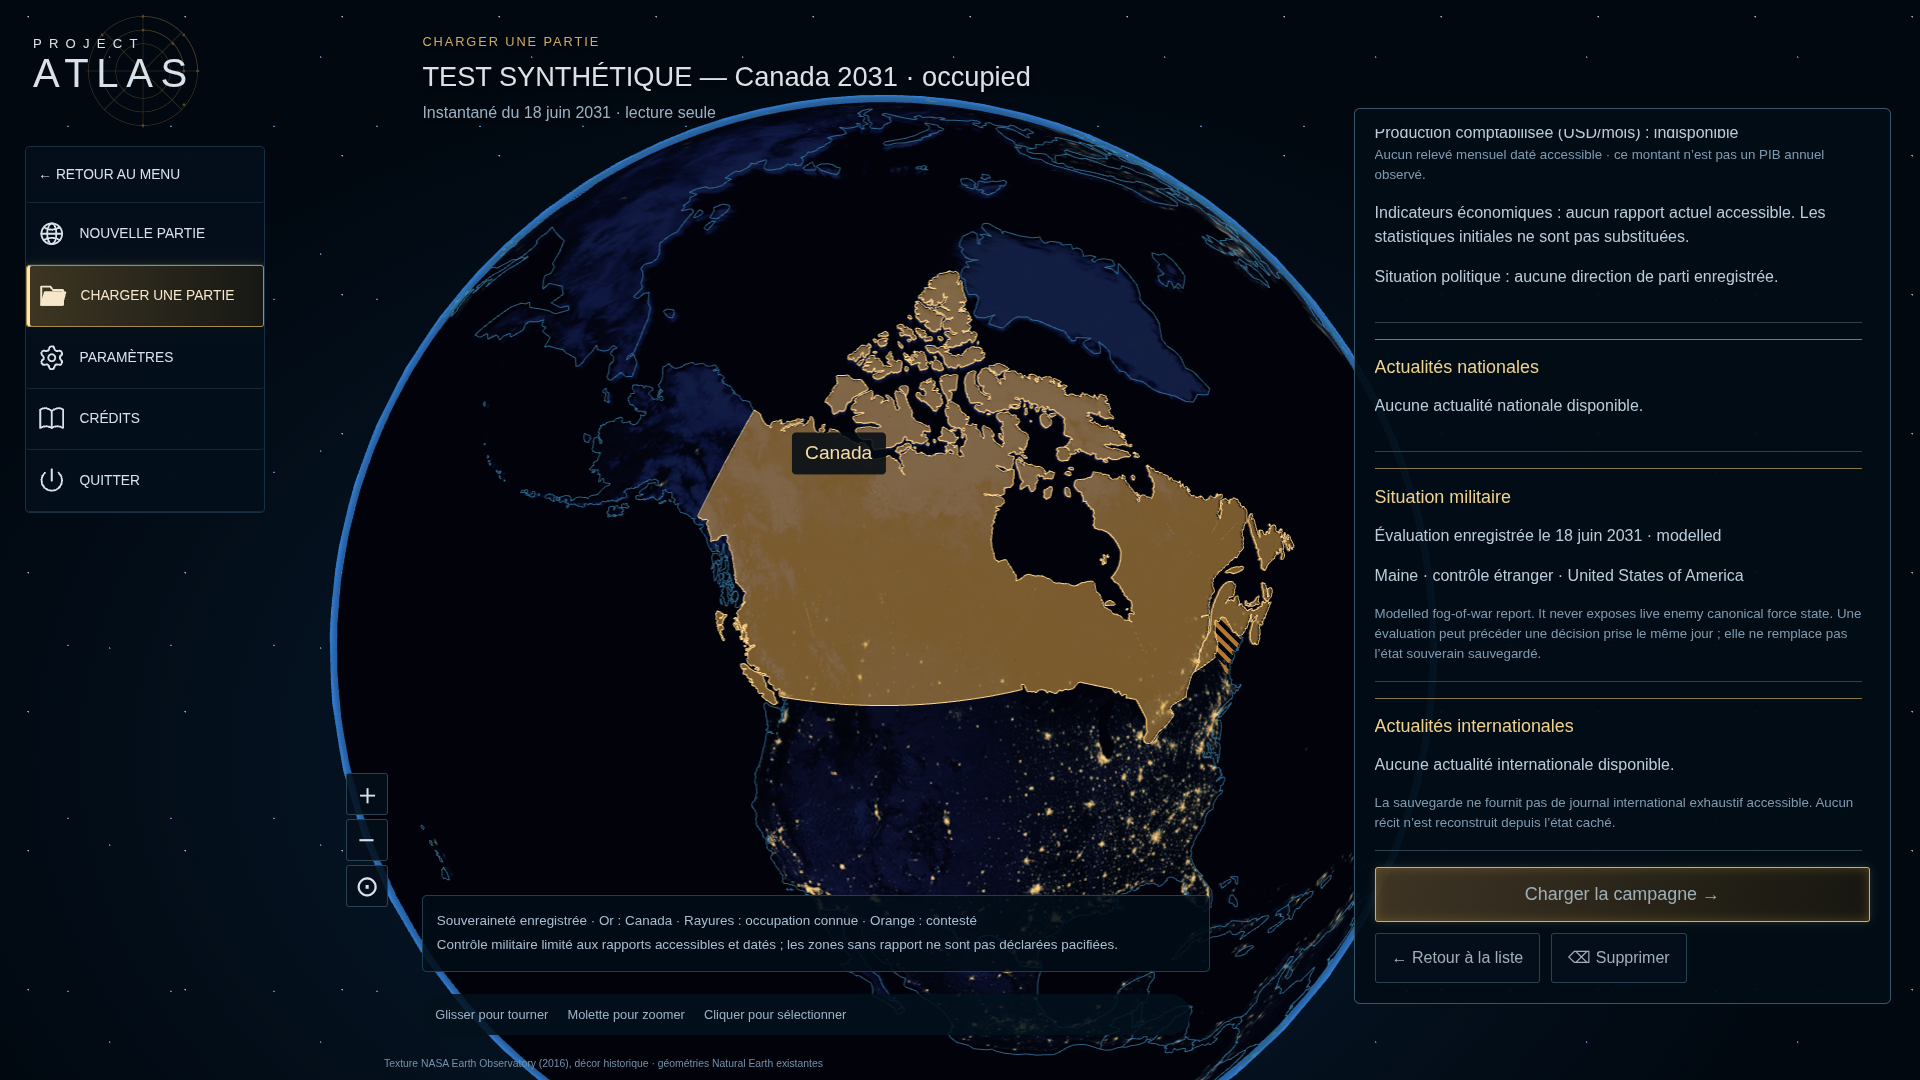
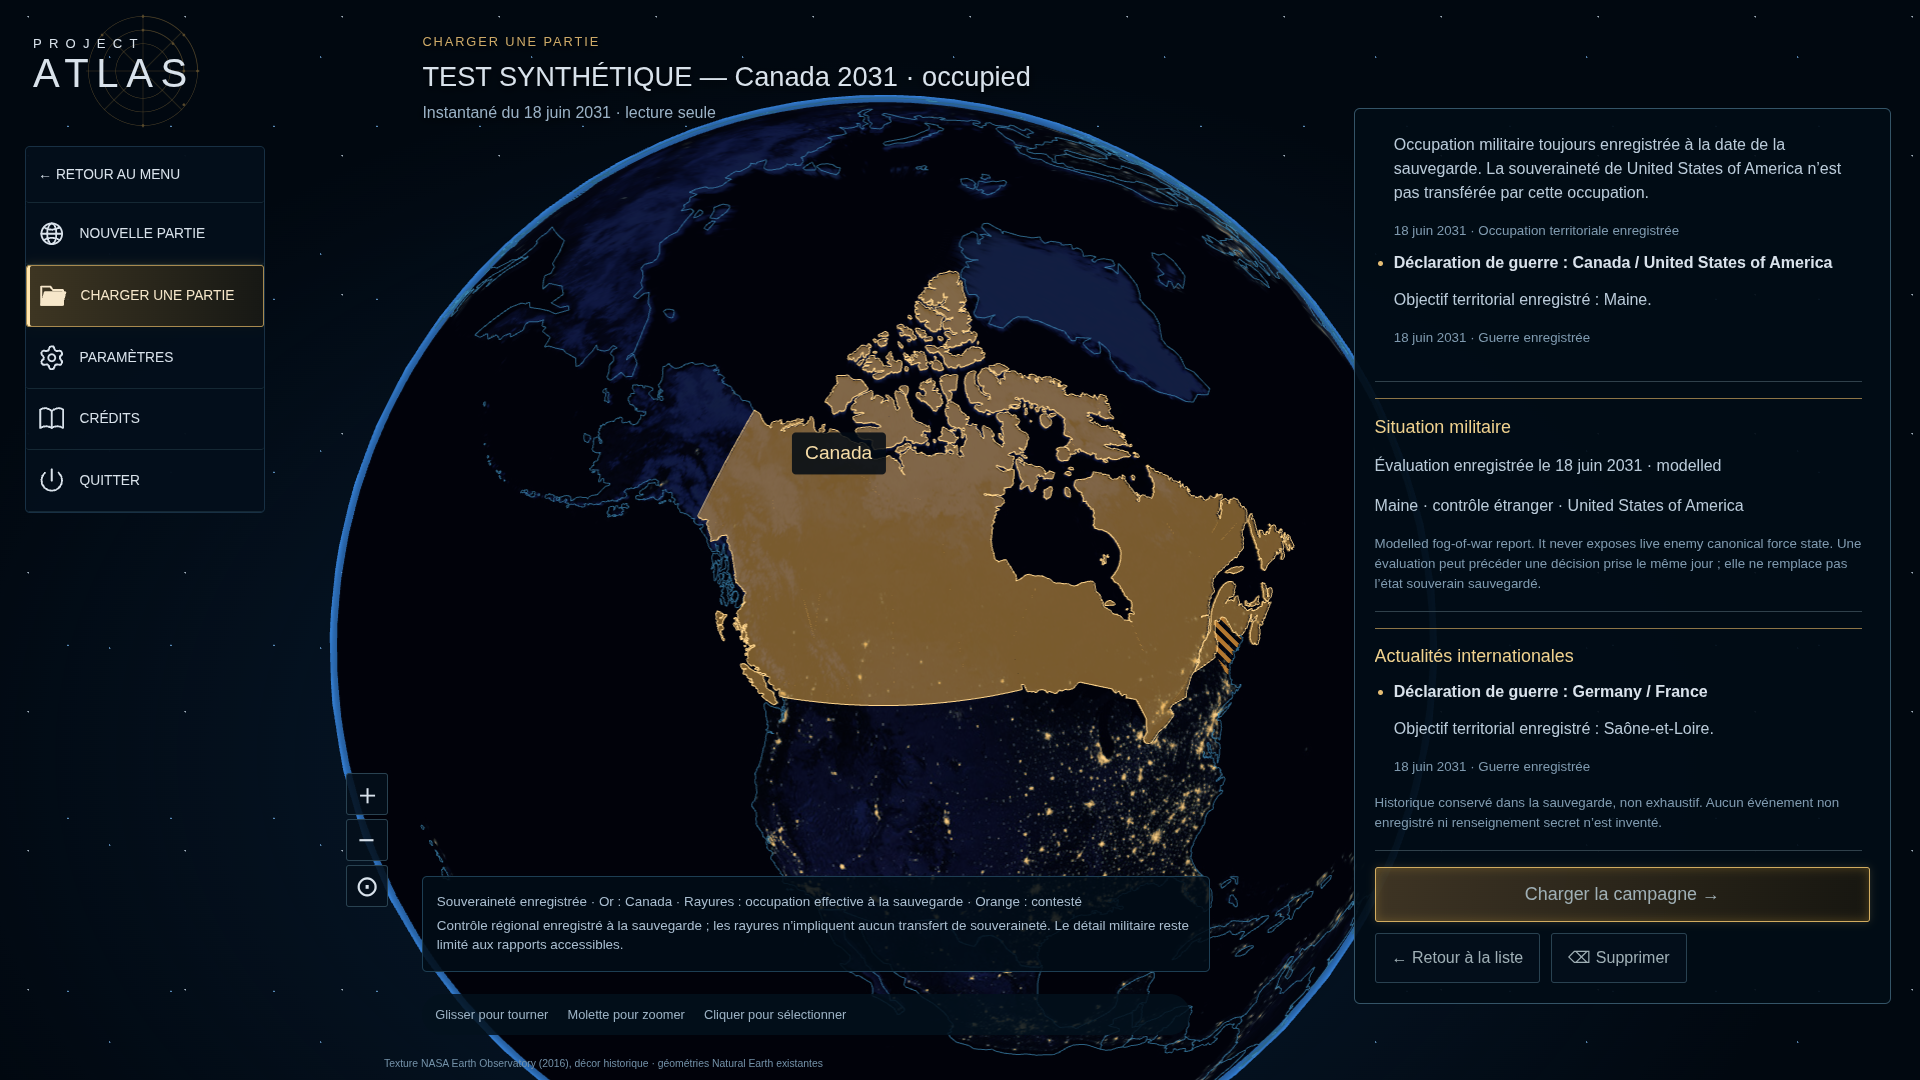
Publish consolidated load menu audit and fresh national and international news screenshots

Changed region(s): [[0.7188, 0.1222, 0.9688, 0.7639], [0.2188, 0.7944, 0.625, 0.8861]]

diff --git a/docs/load-game-final-audit.md b/docs/load-game-final-audit.md
@@ -24,3 +24,51 @@ Parent conservé : ce4cea59608fa7ef0100c64f3172051de439ef1c. Branche existante u
 - Texte de refus des renseignements militaires devenu contradictoire avec la carte mondiale : corriger le libellé, pas les droits.
 
 Risques : couverture historique bornée, absence d'historique d'occupations achevées, contours généralisés, coût des grandes fixtures, chronologie intrajournalière limitée aux preuves enregistrées. Ces limites doivent rester explicites.
+
+## Revue du diff après implémentation
+
+| Sujet audité | Constat / décision | Preuve ou validation attendue |
+|---|---|---|
+| Cadence des rapports / opposition | Correctif récent conservé : statut régional global sauvegardé, rapports tactiques détaillés filtrés | Tests occupation entre rapports et sans fonction, contrôle étranger contesté |
+| Cession et frontières | Aucun nouveau transfert ; source exclusive regionOwnership, suppression des segments partagés du même souverain | Test réel contours Canada/Maine et reprise A/B/A |
+| Géométrie partielle | Corrigé : une région n'est complète que si tous ses sourceFeatureIds uniques sont présents et polygonaux, fermés, finis et géographiquement admissibles | Test composante manquante et coordonnées invalides ; repli explicite |
+| Aperçu / campagne active | Aucun changement du chemin de restauration détachée ni de l'horloge | Comparaison par resauvegarde via l'interface du jeu ; date, tick, seed, pause, personne, propriété et occupation |
+| Chronologie | Corrigé : sélectionner les 12 événements majeurs puis afficher les éléments retenus par date décroissante, importance et ID comme départages stables | Test ordre et priorité des faits majeurs sur événements mineurs |
+| Doublons | Corrigé : résultat parlementaire accessible avec référence explicite à la proposition et même date remplace l'entrée de décision correspondante | Test briefing/résultat de loi ; aucune suppression déduite d'une simple similarité de titres |
+| Événements futurs | Déclarations futures ignorées ; restriction différée présentée comme non encore applicable, levée future non annoncée | Test déclaration/application/levée ; contrôles existants des briefings et évaluations |
+| Crises et droits | Ne pas convertir les épisodes cachés en actualités ; seuls les briefings accessibles existants sont projetés | Test crise publique visible et briefing gouvernemental exclu pour le personnage sans fonction |
+| Diplomatie | Conservation des évaluations accessibles et datées, sans exposer leurs drivers cachés | Tests existants conservés ; traités, restrictions et guerre étrangère projetés depuis les enregistrements |
+| Libellé militaire | Corrigé : le refus concerne les rapports détaillés, pas la carte régionale publique globale | Libellé aligné avec le correctif territorial antérieur |
+| Visuel | Composition existante conservée ; nouvelles captures dédiées à chaque rubrique, aux deux tailles et à 150 %, plus sans WebGL | Nouveau parcours navigateur ; images à relire après run |
+| Périmètre | Aucune règle moteur, migration, donnée canonique, stockage, BUG-001 ou animation UX-001 modifié | Diff contre le parent ce4cea59 et contre main pour les chemins protégés |
+
+La nouvelle guerre étrangère des captures est une fixture synthétique Allemagne–France, ajoutée par createClaim et declareLimitedWar avec des IDs canoniques. Elle n'est pas une observation de 2031 ni une simulation historique revendiquée. Les trois sauvegardes du test passent la sérialisation/restauration et les invariants sur le runner avant utilisation par le navigateur.
+
+## Limites restantes, explicites
+
+- La sauvegarde conserve les déclarations et issues des guerres, mais pas un journal exhaustif des occupations déjà levées. Aucune occupation passée n'est reconstruite.
+- Une victoire territoriale enregistrée établit le transfert appliqué par cette guerre ; elle n'établit jamais une signature de traité de paix distincte. Un transfert ultérieur éventuel ne réécrit pas le récit historique de cette guerre.
+- Seuls les événements de traités réellement conservés dans history apparaissent, pas des signatures inférées depuis status ; les historiques sont bornés par le moteur. Les crises sans briefing accessible restent absentes.
+- Une date au jour ne fournit pas toujours un ordre intrajournalier : les égalités sont résolues par importance puis ID stable, sans inventer d'heure ou de séquence historique.
+- Douze nouvelles au maximum par rubrique : la sélection donne priorité à l'importance enregistrée/interprétée par type, puis le rendu reste chronologique. Il ne s'agit pas d'un nouveau journal canonique.
+- Les décisions dépourvues de date ne deviennent pas des actualités datées fictivement. Les données économiques absentes restent indisponibles, les zéros réels restent des valeurs.
+- Les statuts régionaux sont affichés globalement conformément à la demande ; cela ne révèle pas les unités, forces ou renseignements gouvernementaux. L'absence de rayures ne signifie pas absence de conflit.
+- Les contours Natural Earth sont généralisés. Les zones non mappées restent explicitement indisponibles ; aucune frontière nationale entière n'est recolorée pour remplacer une région manquante.
+- Les rapports diplomatiques conservent leur ancienneté et leur qualité ; les valeurs réelles internes ne sont pas automatiquement transmises au personnage.
+- Le panneau se parcourt par défilement, notamment à 150 %. Le retour de Paramètres/Crédits revient à la liste. Certains noms et sources canoniques restent anglais.
+- Les captures sont celles de Chromium/SwiftShader et du build réel avec IPC natif de test simulé : elles ne valident pas le webview/Rust Tauri. Le quota du stockage web n'est pas modifié. Aucune fixture synthétique n'est distribuée dans les données du produit.
+
+## Validation
+
+Parent ce4cea59 : les deux jobs Linux/Windows de verify 41268584176 sont success. Aucun correctif moteur n'est justifié par ce résultat. La CI dédiée du parent et les validations de cette passe sont recensées après réception des journaux finaux. Aucun test, build, benchmark ou lancement applicatif local.
+
+### Résultats de la passe de finalisation
+
+- Code audité : `8ebde066751f933fad4c6d3baa4b47d91ad8db46`, extension minimale de `ce4cea59608fa7ef0100c64f3172051de439ef1c`.
+- [load-game-ui 41271227366](https://github.com/waffle913/ProjectAtlas/actions/runs/41271227366) : **success**. Commande ciblée inchangée : `npm test -- src/app/__tests__ src/components/__tests__ src/simulation/__tests__/startSelection.test.ts src/simulation/__tests__/executiveAuthority.test.ts --maxWorkers=1` : **23 fichiers, 196 tests réussis**.
+- `npm run build` : type-check/compilation réussis, Vite 706 ms.
+- `npx playwright test --config=playwright.load-game.config.ts` : **2 scénarios réussis**, 54,5 s, incluant les nouvelles captures des deux rubriques.
+- `npx playwright test --config=playwright.new-game.config.ts` : **2 régressions existantes réussies**, 35,4 s.
+- [verify général 41271227358](https://github.com/waffle913/ProjectAtlas/actions/runs/41271227358) : en cours à la publication de cette première mise à jour documentaire ; le résultat final sera ajouté après achèvement.
+- Captures : artefact **13069009170**, source exacte `8ebde066751f933fad4c6d3baa4b47d91ad8db46`, [galerie](load-game-captures/README.md). Inspection des deux tailles, de 150 %, de l'état cédé et du repli sans WebGL : textes accessibles par défilement, bouton de chargement fixe et utilisable, légende/aide distinctes, dates/provenances visibles. La guerre étrangère provient de la fixture validée, pas d'un récit ajouté à l'interface.
+- Le diff des chemins protégés `src/simulation`, `src/data`, `public/data`, `src-tauri` contre le parent reste vide. Aucun système canonique n'a changé.

diff --git a/docs/load-game-globe.md b/docs/load-game-globe.md
@@ -12,7 +12,7 @@ Quitter l'aperçu conserve la campagne active. Paramètres/Crédits ouverts depu
 
 ## Géopolitique et accès à l'information
 
-savedGeography est une projection graphique éphémère de regionOwnership, sans deuxième source d'appartenance. Le catalogue mondial sert aux noms et aux géométries ; aucune statistique de départ n'est utilisée comme donnée actuelle. Les pays de départ non modifiés gardent leur couche de navigation Admin0 ; le pays joué, les pays parents de régions transférées, les nouveaux souverains et les pays couverts par un rapport opérationnel accessible utilisent les actifs Admin1 déjà liés aux IDs permanents. Aucun identifiant n'est créé depuis ISO ou un nom.
+savedGeography est une projection graphique éphémère de regionOwnership, sans deuxième source d'appartenance. Le catalogue mondial sert aux noms et aux géométries ; aucune statistique de départ n'est utilisée comme donnée actuelle. Les pays de départ non modifiés gardent leur couche de navigation Admin0 ; le pays joué, les pays parents de régions transférées, les nouveaux souverains et tous les pays dont une région est occupée ou contestée utilisent les actifs Admin1 déjà liés aux IDs permanents. Aucun identifiant n'est créé depuis ISO ou un nom.
 
 Le Maine possède une géométrie admissible : region.48cfa977-7483-4227-9ae0-f1d1ad3cff07, actif local des États-Unis, source Natural Earth Admin1 déjà embarquée. Les arêtes communes entre polygones de même souverain sont retirées des frontières internationales ; les couleurs n'attribuent jamais la souveraineté. Les triangles/rayures portent sur la région précise, jamais sur tout le pays national.
 
@@ -62,8 +62,14 @@ Limites à réviser : données géographiques manquantes avec repli explicite ; 
 
 ## Correctif de cohérence carte / actualités (revue post-livraison)
 
-Le globe représente le contrôle régional canonique \`operations.regionControl\` et \`occupationByRegion\` **à la date exacte de la sauvegarde**, indépendamment de la cadence mensuelle des rapports de renseignement et de l'accès gouvernemental du personnage. Les frontières de souveraineté restent dérivées de \`regionOwnership\`. Les rapports militaires détaillés restent soumis aux droits du personnage ; aucune force, unité ou renseignement caché n'est exposé par la carte. Les pays autres que le pays joué qui possèdent des régions occupées ou contestées sont inclus dans le chargement régional ciblé.
+Le globe représente le contrôle régional canonique `operations.regionControl` et `occupationByRegion` **à la date exacte de la sauvegarde**, indépendamment de la cadence mensuelle des rapports de renseignement et de l'accès gouvernemental du personnage. Les frontières de souveraineté restent dérivées de `regionOwnership`. Les rapports militaires détaillés restent soumis aux droits du personnage ; aucune force, unité ou renseignement caché n'est exposé par la carte. Les pays autres que le pays joué qui possèdent des régions occupées ou contestées sont inclus dans le chargement régional ciblé.
 
-Un nouveau projecteur en lecture seule, \`src/app/loadNews.ts\`, fournit deux rubriques avec titres, dates et sources : guerres déclarées et terminées, occupations encore actives, historiques de traités explicitement enregistrés, sanctions/restrictions déclarées et levées, et briefings/décisions filtrés par \`campaignSummary\`. La fin d'une guerre et sa cession territoriale déjà enregistrée ne sont jamais rebaptisées « traité de paix » sans traité distinct. L'historique des occupations déjà levées n'est pas persisté : le menu ne fabrique donc pas de chronologie rétroactive. Les crises non publiées ne sont pas révélées par leurs seules variables internes ; seuls les briefings accessibles apparaissent. Les rubriques ne forment pas un journal exhaustif, et des limites du moteur restent explicites.
+Un nouveau projecteur en lecture seule, `src/app/loadNews.ts`, fournit deux rubriques avec titres, dates et sources : guerres déclarées et terminées, occupations encore actives, historiques de traités explicitement enregistrés, sanctions/restrictions déclarées et levées, et briefings/décisions filtrés par `campaignSummary`. La fin d'une guerre et sa cession territoriale déjà enregistrée ne sont jamais rebaptisées « traité de paix » sans traité distinct. L'historique des occupations déjà levées n'est pas persisté : le menu ne fabrique donc pas de chronologie rétroactive. Les crises non publiées ne sont pas révélées par leurs seules variables internes ; seuls les briefings accessibles apparaissent. Les rubriques ne forment pas un journal exhaustif, et des limites du moteur restent explicites.
 
 Les nouveaux tests couvrent les sauvegardes Canada/Maine avant et après la fin de guerre, la conservation des rayures entre deux rapports mensuels et sans accès gouvernemental, l'actualité d'une autre guerre, les traités réellement enregistrés, les restrictions internationales, la conservation des évaluations diplomatiques accessibles, et le rejet des nouvelles futures.
+
+## Finalisation et audit consolidé
+
+La passe finale reprend le parent `ce4cea59608fa7ef0100c64f3172051de439ef1c` sans remplacer les correctifs récents. Le [rapport unique d'audit](load-game-final-audit.md) recense les anomalies confirmées, les corrections, la revue et les limites restantes. Les [nouvelles captures des actualités nationales et internationales](load-game-captures/README.md#audit-final--nouvelles-captures-des-actualités) proviennent de l'application sur runner, code `8ebde066751f933fad4c6d3baa4b47d91ad8db46`, [CI dédiée réussie](https://github.com/waffle913/ProjectAtlas/actions/runs/41271227366) : 196 tests, build et quatre parcours navigateur réussis.
+
+Le tri conserve les événements majeurs puis présente la sélection chronologiquement ; les doublons parlementaires reliés explicitement sont supprimés ; les restrictions à effet différé ne sont pas annoncées comme déjà appliquées. Les géométries multi-composantes doivent être complètes selon les IDs source canoniques pour être affichées comme couvertes. Aucun moteur, stockage, donnée mondiale, règle de contrôle/souveraineté, BUG-001 ou animation UX-001 modifié.

diff --git a/docs/load-game-captures/README.md b/docs/load-game-captures/README.md
@@ -18,3 +18,22 @@ Autres états : [cession du Maine au Canada](ceded-1920x1080.png), [personnage s
 [Référence artistique fournie](../load-game-reference.png) : palette, globe nocturne, navigation et panneau droit repris. La liste appartient à un écran distinct et le bandeau Nouvelle partie est absent, conformément à la mission. Les textes et chiffres fictifs de la référence ne sont pas copiés. Le décor NASA reste historique ; les informations de campagne proviennent des sauvegardes. La géométrie du Maine est celle du registre régional, pas une zone dessinée pour la démonstration. Les limitations de visibilité militaire et de journal international restent explicites.
 
 Provenance du run et résultats : [rapport de livraison](../load-game-globe.md).
+
+## Audit final — nouvelles captures des actualités
+
+Source des images de cette galerie : commit `8ebde066751f933fad4c6d3baa4b47d91ad8db46`, [run load-game-ui 41271227366](https://github.com/waffle913/ProjectAtlas/actions/runs/41271227366), artefact `13069009170`. Elles remplacent les captures antérieures aux correctifs territoriaux et au projecteur d'actualités. Toutes les nouvelles ci-dessous viennent des enregistrements des sauvegardes synthétiques validées sur runner.
+
+| Viewport / échelle | Actualités nationales | Actualités internationales |
+|---|---|---|
+| 1920 × 1080 / 100 % | [Occupation et déclaration](occupied-news-1920x1080-national.png) | [Guerre étrangère enregistrée](occupied-news-1920x1080-international.png) |
+| 1366 × 768 / 100 % | [Nationales](occupied-news-1366x768-national.png) | [Internationales](occupied-news-1366x768-international.png) |
+| 1920 × 1080 / 150 % | [Nationales](occupied-news-ui150-1920x1080-national.png) | [Internationales](occupied-news-ui150-1920x1080-international.png) |
+| 1366 × 768 / 150 % | [Nationales](occupied-news-ui150-1366x768-national.png) | [Internationales](occupied-news-ui150-1366x768-international.png) |
+
+Après règlement de la guerre : [fin du conflit et transfert du Maine](ceded-news-1920x1080-national.png), [actualité internationale conservée](ceded-news-1920x1080-international.png).
+
+Sans WebGL : [nationales](no-webgl-news-1366x768-national.png), [internationales](no-webgl-news-1366x768-international.png). Le panneau reste consultable et le chargement explicite reste disponible.
+
+Le panneau défile : une capture centrée sur une rubrique peut montrer une partie de la rubrique voisine au bord du défilement. Les rubriques sont intégralement accessibles en faisant défiler le panneau, sans chevauchement du bouton de chargement. Les captures à 150 % présentent la page entière et conservent le viewport annoncé. Le second conflit Allemagne–France sert seulement de fixture internationale synthétique ; aucun événement géopolitique réel de 2031 n'est revendiqué.
+
+Rapport consolidé : [audit final](../load-game-final-audit.md). La carte montre le statut régional global sauvegardé ; les restrictions du personnage s'appliquent aux renseignements détaillés, pas à l'affichage de la souveraineté/occupation/contestation.
